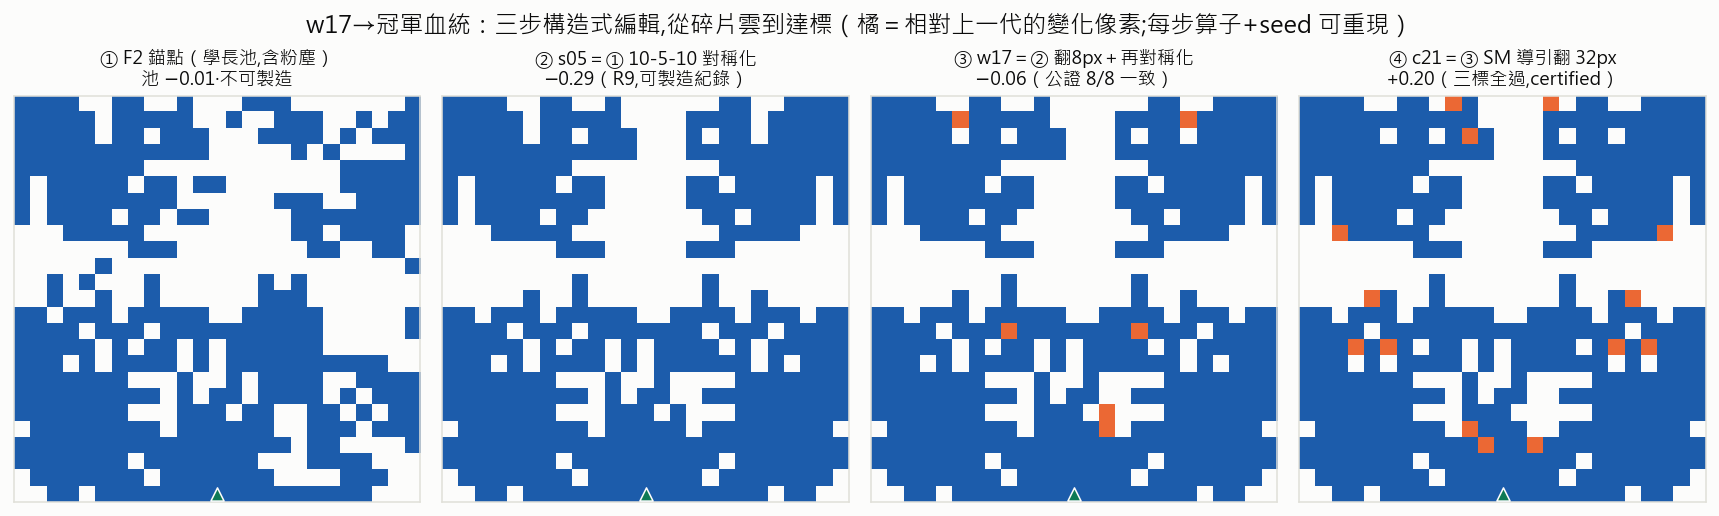
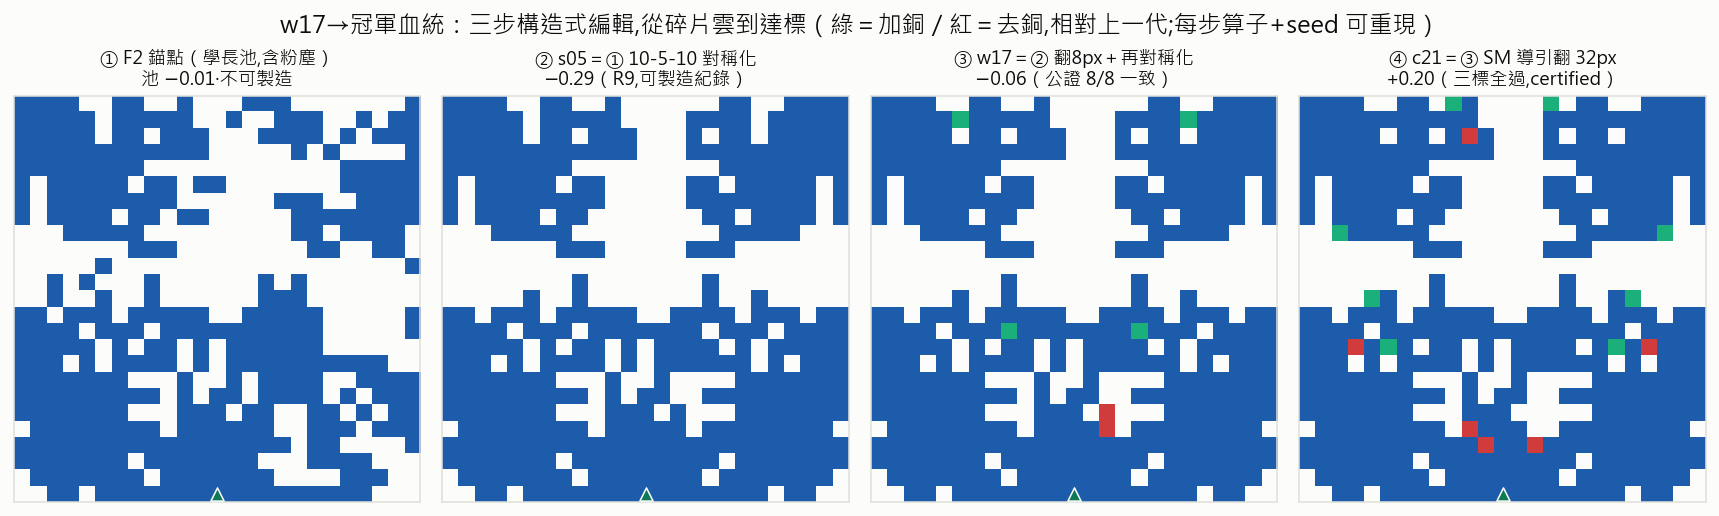
feat(figs)+docs: 報告圖渲染升級（加/減銅·極座標·圖4-4對比）+ 學長參照 pattern 建檔
渲染：
- champ_compare: pattern 差異改「綠＝加銅/紅＝去銅」（原橘=差異,分不出加減）、
  radiation 改極座標（主波束朝上+±45°窗+G0−3dB圈）、加 --plain（結構差很大的前後對比用純底圖）
- report_r1r10_style: 加共用 helper diff_pattern / polar_rad_ax / show_pattern
- report_r1r10_champs: f12血統/f14八冠軍換加/減銅畫法（已重生 png）
- report_rad_polar: 新增，冠軍方向圖極座標渲染（報告用）

文件：
- docs/senior_reference_patterns.md: 新增——標記學長池關鍵參照 pattern：
  oracle F0（重測 +0.44 撐過驗證）／論文圖4-4 t07_top（+0.35 合規但含13粉塵不可製造）／
  我方對稱母本 F2（−1.42,非學長代表作）
- docs/design_priors.md: 修正「F2 錨點 −6.44」誤植（+6.2 是對稱化對散亂投影家族的救援量,非F2絕對值）
- docs/champions.md: 加指向 senior_reference_patterns

golden: 319 passed；pyflakes 乾淨

Claude-Session: https://claude.ai/code/session_017RoPtpkDCGfHmXdaZghgUZ

diff --git a/script/figs/champ_compare.py b/script/figs/champ_compare.py
@@ -11,8 +11,8 @@ import numpy as np
 
 sys.path.insert(0, os.path.dirname(os.path.dirname(os.path.dirname(os.path.abspath(__file__)))))
 from script.figs.report_r1r10_style import (  # noqa: E402
-    INK, INK2, GRID, SURF, RED, DBLUE, AQUA, ORANGE, plt, style_ax)
-from matplotlib.colors import ListedColormap  # noqa: E402
+    INK, INK2, GRID, SURF, RED, DBLUE, plt, style_ax,
+    diff_pattern, show_pattern, polar_rad_ax)
 
 from antenna.utils import config as _config, DATASET_PATH  # noqa: E402
 _config.device = "cpu"
@@ -74,6 +74,8 @@ def main():
     ap.add_argument("--title", default="新舊冠軍對比")
     ap.add_argument("--label-new", default=None, dest="label_new")
     ap.add_argument("--label-old", default=None, dest="label_old")
+    ap.add_argument("--plain", action="store_true",
+                    help="兩個 pattern 都用純底圖（非血統步、結構差很大的前後對比時用）")
     args = ap.parse_args()
     pn, stn = _locate(args.new)
     po, sto = _locate(args.old)
@@ -83,22 +85,16 @@ def main():
     ln = args.label_new or f"{args.new}（新）"
     lo = args.label_old or f"{args.old}（舊）"
 
-    fig = plt.figure(figsize=(13.2, 6.4))
-    gs = fig.add_gridspec(2, 4, width_ratios=[1, 1, 1.35, 1.35], hspace=0.42, wspace=0.34)
-    for col, (p, base, lab, c) in enumerate(((pn, po, ln, INK), (po, None, lo, INK2))):
-        ax = fig.add_subplot(gs[:, col])
-        img = p.astype(int)
-        if base is not None:
-            img[p != base] = 2
-        ax.imshow(img, cmap=ListedColormap([SURF, DBLUE, ORANGE]), vmin=0, vmax=2,
-                  origin="upper", interpolation="nearest")
-        ax.scatter([FEED[1]], [FEED[0]], marker="^", s=44, color=AQUA, zorder=5, edgecolor=SURF, lw=0.8)
-        d = int((pn != po).sum())
-        ax.set_title(f"{lab}" + (f"\n（橘＝相對舊王差異 {d}px）" if base is not None else ""),
-                     color=c, fontsize=9.6)
-        ax.set_xticks([]); ax.set_yticks([])
-        for sp in ax.spines.values():
-            sp.set_color(GRID)
+    fig = plt.figure(figsize=(13.8, 7.7))
+    gs = fig.add_gridspec(2, 4, width_ratios=[1, 1, 1.35, 1.35],
+                          left=0.02, right=0.985, top=0.9, bottom=0.11,
+                          hspace=0.6, wspace=0.44)
+    # 左欄＝新（血統步→綠加銅／紅去銅；--plain→純底圖）；右欄＝舊純底圖
+    if args.plain:
+        show_pattern(fig.add_subplot(gs[:, 0]), pn, title=ln, tfs=9.6)
+    else:
+        diff_pattern(fig.add_subplot(gs[:, 0]), pn, po, title=ln)
+    show_pattern(fig.add_subplot(gs[:, 1]), po, title=lo, color=INK2, tfs=9.6)
     for (gr, idx, spec, nm, low) in ((gs[0, 2], 0, -10, "S11", True), (gs[0, 3], 1, 4, "Gain", False)):
         ax = fig.add_subplot(gr)
         n = rn.shape[1]
@@ -110,16 +106,32 @@ def main():
         style_ax(ax, "頻率 (GHz)", f"{nm} (dB)", nm, tfs=10.5)
         if idx == 0:
             ax.legend(fontsize=8.2, loc="lower left", framealpha=0.94).get_frame().set_edgecolor(GRID)
-    for (gr, cut) in ((gs[1, 2], "phi0"), (gs[1, 3], "phi90")):
-        ax = fig.add_subplot(gr)
-        ax.axvspan(-45, 45, color=GRID, alpha=0.45)
-        for rad, c, lw in ((rado, "#9fb4d4", 1.8), (radn, DBLUE, 2.3)):
-            if rad is not None and rad.get(cut) is not None:
-                ax.plot(np.asarray(rad["theta"]), np.asarray(rad[cut]), color=c, lw=lw)
-        ax.set_xlim(-90, 90); ax.set_xticks([-90, -45, 0, 45, 90])
-        style_ax(ax, "θ (deg)", "Gain (dB)", f"Radiation {cut} — 灰帶＝±45° 窗", tfs=10.5)
-    fig.suptitle(args.title, color=INK, fontsize=12.5)
-    fig.tight_layout(rect=[0, 0, 1, 0.97])
+    def _g0(rad):
+        if rad is None:
+            return None
+        th = np.asarray(rad["theta"]); bi = int(np.abs(th).argmin())
+        vals = [float(np.asarray(rad[c])[bi]) for c in ("phi0", "phi90") if rad.get(c) is not None]
+        return max(vals) if vals else None
+    g0n = _g0(radn)
+    for k, (gr, cut) in enumerate(((gs[1, 2], "phi0"), (gs[1, 3], "phi90"))):
+        ax = fig.add_subplot(gr, projection="polar")
+        series = []
+        if rado is not None and rado.get(cut) is not None:
+            series.append((rado[cut], "#9fb4d4", lo, 1.7))
+        if radn is not None and radn.get(cut) is not None:
+            series.append((radn[cut], DBLUE, ln, 2.3))
+        if series:
+            th = np.asarray((radn if radn is not None else rado)["theta"])
+            polar_rad_ax(ax, th, series, window=45, floor_db=3, g0_ref=g0n)
+            ax.set_title(f"方向圖 φ={cut[3:]}°（極座標）", color=INK, fontsize=9.8, pad=9)
+            if k == 0:
+                ax.legend(fontsize=7.6, loc="lower center", bbox_to_anchor=(0.5, -0.2),
+                          ncol=2, framealpha=0.9).get_frame().set_edgecolor(GRID)
+        else:
+            ax.set_title(f"方向圖 φ={cut[3:]}°（無資料）", color=INK2, fontsize=9.8)
+    fig.suptitle(args.title, color=INK, fontsize=12.8, y=0.965)
+    fig.text(0.5, 0.02, "方向圖：主波束朝上·金＝±45° 覆蓋窗·橘虛線＝窗邊界·紅虛圈＝G0−3dB 門檻（窗內不得低於此圈）",
+             ha="center", color=INK2, fontsize=8.6)
     os.makedirs(os.path.dirname(args.out), exist_ok=True)
     fig.savefig(args.out, dpi=140, bbox_inches="tight", facecolor=SURF)
     print(f"→ {args.out}")

diff --git a/script/figs/report_r1r10_style.py b/script/figs/report_r1r10_style.py
@@ -62,3 +62,70 @@ def show_pattern(ax, p, title="", feed=(24, 12), color=DBLUE, tfs=10):
     ax.set_yticks([])
     for s in ax.spines.values():
         s.set_color(GRID)
+
+
+def diff_pattern(ax, p_new, p_old, title="", feed=(24, 12), tfs=9.6, show_counts=True):
+    """25×25 pattern 差異底圖：白＝雙方空、藍＝雙方金屬、綠＝加銅（新有舊無）、紅＝去銅（新無舊有）。
+    p_new/p_old 任意輸入。回傳 (n_add, n_remove)。"""
+    from matplotlib.colors import ListedColormap
+    import numpy as np
+    pn = np.asarray(p_new).reshape(25, 25) > 0.5
+    po = np.asarray(p_old).reshape(25, 25) > 0.5
+    img = pn.astype(int)                       # 0=空 1=金屬
+    added = pn & ~po
+    removed = (~pn) & po
+    img[added] = 2                             # 綠＝加銅
+    img[removed] = 3                           # 紅＝去銅
+    ax.imshow(img, cmap=ListedColormap([SURF, DBLUE, GREEN, RED]), vmin=0, vmax=3,
+              origin="upper", interpolation="nearest")
+    ax.scatter([feed[1]], [feed[0]], marker="^", s=46, color=AQUA, zorder=5,
+               edgecolor=SURF, lw=0.8)
+    na, nr = int(added.sum()), int(removed.sum())
+    if title:
+        sub = f"\n綠＝加銅 {na}px・紅＝去銅 {nr}px" if show_counts else ""
+        ax.set_title(title + sub, color=INK, fontsize=tfs)
+    ax.set_xticks([])
+    ax.set_yticks([])
+    for s in ax.spines.values():
+        s.set_color(GRID)
+    return na, nr
+
+
+def polar_rad_ax(ax, theta, series, window=45, floor_db=3, rmax=None, rmin=None,
+                 show_window=True, g0_ref=None):
+    """在 polar ax 上畫方向圖切面（主波束朝上、半徑=gain dB、每環 5dB）。
+    theta：角度(度)。series：list of (gain陣列, 顏色, 標籤, 線寬)。
+    畫 ±window° 覆蓋窗（金）＋兩邊界（橘）＋G0−floor_db 圈（紅虛）。回傳 (rmin, rmax, g0)。"""
+    import numpy as np
+    th = np.asarray(theta)
+    o = th.argsort()
+    th = th[o]
+    ser = [(np.asarray(g).reshape(-1)[o], c, lab, lw) for (g, c, lab, lw) in series]
+    bi = int(np.abs(th).argmin())
+    g0 = g0_ref if g0_ref is not None else max(float(g[bi]) for g, *_ in ser)
+    gmax = max(float(g.max()) for g, *_ in ser)
+    gmin = min(float(g.min()) for g, *_ in ser)
+    if rmax is None:
+        rmax = int(np.ceil((gmax + 0.5) / 5.0) * 5)
+    if rmin is None:
+        rmin = int(max(np.floor(gmin / 5.0) * 5, rmax - 30))
+    ax.set_theta_zero_location("N")
+    ax.set_theta_direction(-1)
+    ax.set_rlim(0, rmax - rmin)
+    ax.set_rlabel_position(0)
+    if show_window:
+        ax.fill_between(np.deg2rad(np.linspace(-window, window, 60)), 0, rmax - rmin,
+                        color="gold", alpha=0.14)
+        for a in (-window, window):
+            ax.plot([np.deg2rad(a)] * 2, [0, rmax - rmin], color=ORANGE, ls="--", lw=1.3)
+    ax.plot(np.deg2rad(np.linspace(-180, 180, 361)), np.full(361, (g0 - floor_db) - rmin),
+            color=RED, ls="--", lw=1.1)
+    for g, c, lab, lw in ser:
+        ax.plot(np.deg2rad(th), np.clip(g, rmin, None) - rmin, color=c, lw=lw, label=lab)
+    rt = list(range(rmin, rmax + 1, 5))
+    ax.set_rticks([t - rmin for t in rt])
+    ax.set_yticklabels([str(t) for t in rt], fontsize=7, color=INK2)
+    ax.set_thetagrids(range(0, 360, 30),
+                      ["0", "30", "60", "90", "120", "150", "180",
+                       "-150", "-120", "-90", "-60", "-30"], fontsize=7.5, color=INK2)
+    return rmin, rmax, g0

diff --git a/script/figs/report_rad_polar.py b/script/figs/report_rad_polar.py
@@ -1,0 +1,64 @@
+# -*- coding: utf-8 -*-
+"""report_rad_polar.py — 報告用：把指定冠軍的方向圖以「極座標」渲染（達標樣貌一目了然）。
+主波束朝上、半徑=gain(dB)、phi0(E,藍)/phi90(H,綠)、金＝±45° 覆蓋窗、紅虛圈＝G0−3dB 門檻。
+用法: python -m script.figs.report_rad_polar --ids o23b1_007_k8_042_k7_00,g16_r15 \
+      --labels "o23b1_007（rad 王 +1.00）,g16（平衡 rad +0.49）" --out docs/report/assets/rad_polar.png
+資料同 champ_compare（掃 *_input 找 pattern、對應 store 撈 rad）。"""
+import argparse
+import os
+import sys
+
+import numpy as np
+
+sys.path.insert(0, os.path.dirname(os.path.dirname(os.path.dirname(os.path.abspath(__file__)))))
+from script.figs.report_r1r10_style import (  # noqa: E402
+    INK, INK2, SURF, DBLUE, GREEN, plt, polar_rad_ax)
+from script.figs.champ_compare import _locate, _resp_rad  # noqa: E402
+
+
+def main():
+    ap = argparse.ArgumentParser()
+    ap.add_argument("--ids", required=True, help="逗號分隔的冠軍完整 id")
+    ap.add_argument("--labels", default=None, help="逗號分隔的標籤（對齊 ids）")
+    ap.add_argument("--out", required=True)
+    ap.add_argument("--title", default="通過方向圖規格的設計（極座標）")
+    args = ap.parse_args()
+    ids = [s.strip() for s in args.ids.split(",")]
+    labs = [s.strip() for s in args.labels.split(",")] if args.labels else ids
+
+    rads = []
+    for pid in ids:
+        pat, store = _locate(pid)
+        _resp, rad = _resp_rad(pid, pat, store)
+        if rad is None:
+            raise SystemExit(f"{pid} 無方向圖資料")
+        rads.append(rad)
+
+    n = len(ids)
+    fig = plt.figure(figsize=(5.0 * n, 6.0))
+    for i, (rad, lab) in enumerate(zip(rads, labs)):
+        ax = fig.add_subplot(1, n, i + 1, projection="polar")
+        th = np.asarray(rad["theta"])
+        bi = int(np.abs(th).argmin())
+        g0 = max(float(np.asarray(rad[c])[bi]) for c in ("phi0", "phi90") if rad.get(c) is not None)
+        series = []
+        if rad.get("phi0") is not None:
+            series.append((rad["phi0"], DBLUE, "φ=0° (E)", 2.2))
+        if rad.get("phi90") is not None:
+            series.append((rad["phi90"], GREEN, "φ=90° (H)", 2.2))
+        polar_rad_ax(ax, th, series, window=45, floor_db=3, g0_ref=g0)
+        ax.set_title(f"{lab}　G0={g0:.1f} dB", color=INK, fontsize=10.5, pad=8)
+        ax.legend(fontsize=8, loc="lower center", bbox_to_anchor=(0.5, -0.14),
+                  ncol=2, framealpha=0.9)
+    fig.suptitle(args.title, color=INK, fontsize=12.5, y=0.965)
+    fig.text(0.5, 0.035,
+             "主波束朝上·半徑＝Gain(dB)·金＝±45° 覆蓋窗·紅虛圈＝G0−3dB 門檻（窗內每個角度都須高於此圈才達標）",
+             ha="center", color=INK2, fontsize=8.6)
+    fig.subplots_adjust(left=0.04, right=0.96, top=0.82, bottom=0.15, wspace=0.30)
+    os.makedirs(os.path.dirname(args.out), exist_ok=True)
+    fig.savefig(args.out, dpi=140, facecolor=SURF)
+    print(f"→ {args.out}")
+
+
+if __name__ == "__main__":
+    main()

diff --git a/script/figs/report_r1r10_champs.py b/script/figs/report_r1r10_champs.py
@@ -9,7 +9,7 @@ import numpy as np
 
 sys.path.insert(0, os.path.dirname(os.path.dirname(os.path.dirname(os.path.abspath(__file__)))))
 from script.figs.report_r1r10_style import (  # noqa: E402
-    REPO, INK, INK2, MUTED, GRID, SURF, RED, DBLUE, AQUA, ORANGE,
+    REPO, INK, INK2, MUTED, GRID, SURF, RED, DBLUE, AQUA, ORANGE, GREEN,
     plt, style_ax, save)
 from matplotlib.colors import ListedColormap  # noqa: E402
 
@@ -41,11 +41,15 @@ def _find_resp(store_name, pat):
 
 
 def _diff_show(ax, p, ref, title, tfs=9.4):
-    """pattern＋與 ref 的差異像素標橘。"""
+    """pattern；有 ref 時：綠＝加銅（p 有 ref 無）、紅＝去銅（p 無 ref 有）、藍＝共同金屬。"""
     img = p.astype(int)
     if ref is not None:
-        img[p != ref] = 2
-    ax.imshow(img, cmap=ListedColormap([SURF, DBLUE, ORANGE]), vmin=0, vmax=2,
+        img[p & ~ref] = 2          # 加銅
+        img[(~p) & ref] = 3         # 去銅
+        cmap = ListedColormap([SURF, DBLUE, GREEN, RED]); vmax = 3
+    else:
+        cmap = ListedColormap([SURF, DBLUE]); vmax = 1
+    ax.imshow(img, cmap=cmap, vmin=0, vmax=vmax,
               origin="upper", interpolation="nearest")
     ax.scatter([FEED[1]], [FEED[0]], marker="^", s=46, color=AQUA, zorder=5,
                edgecolor=SURF, lw=0.8)
@@ -72,7 +76,7 @@ def fig12():
     _diff_show(axes[1], s05, None, "② s05＝① 10-5-10 對稱化\n−0.29（R9,可製造紀錄）")
     _diff_show(axes[2], w17, s05, "③ w17＝② 翻8px＋再對稱化\n−0.06（公證 8/8 一致）")
     _diff_show(axes[3], c21, w17, "④ c21＝③ SM 導引翻 32px\n+0.20（三標全過,certified）")
-    fig.suptitle("w17→冠軍血統：三步構造式編輯,從碎片雲到達標（橘＝相對上一代的變化像素;每步算子+seed 可重現）",
+    fig.suptitle("w17→冠軍血統：三步構造式編輯,從碎片雲到達標（綠＝加銅／紅＝去銅,相對上一代;每步算子+seed 可重現）",
                  color=INK, fontsize=12.2)
     fig.tight_layout()
     save(fig, "f12_lineage.png")
@@ -131,7 +135,7 @@ def fig14():
         _diff_show(ax, p, w17,
                    f"{cid}（{arm[man[cid]['family'][0]]}, k={man[cid].get('flip_k')}）\n"
                    f"wm +{v['wm'][2]:.2f} · rad +{v['rad_margin']:.2f}", tfs=9.6)
-    fig.suptitle("八冠軍 gallery（橘＝與前任 w17 的差異像素;三標全過,certified;按 wm 排序）\n"
+    fig.suptitle("八冠軍 gallery（綠＝加銅／紅＝去銅,相對前任 w17;三標全過,certified;按 wm 排序）\n"
                  "共同體質：3 組件、零粉塵、主件 240-250px——w17 高地是一整片高原",
                  color=INK, fontsize=12.5)
     fig.tight_layout(h_pad=3.0)

diff --git a/docs/senior_reference_patterns.md b/docs/senior_reference_patterns.md
@@ -1,0 +1,19 @@
+# 學長池的關鍵參照 pattern（benchmark / 報告敘事用）
+
+> 2026-07-14 建檔。這些是學長歷史池裡的**關鍵參照 pattern**——做 benchmark、寫報告、對比「學長成果 vs 我方」時用，避免每次重查。
+> 判準：worst-margin 全走 `antenna.losses.worst_margin` + `configs/single_r5_explore.yaml` targets（帶內 26.5–29.5 GHz、S11 ≤ −10、Gain ≥ +4）。**指向不複製**：冠軍名鑑見 `champions.md`、機器真相見 `records.json`、身分緣由見 memory [[project_senior_showcase_vs_f2]]。
+
+## 三個關鍵 pattern
+
+| 代號 | 定位 | 池 idx | 存放位置 | 池值 wm | **現行 HFSS 重測 wm** | 可製造 | 角色／備註 |
+|---|---|---|---|---|---|---|---|
+| **t07_top** | 🎯 **學長論文圖 4-4 招牌** | 16132 | `dedust_r9_input/t07_top`（rad 在 `dedust_r9/rad/`） | +0.09 | **+0.35**（S11 +0.46／Gain +0.35，帶內達標） | ❌（含 13 個 <4px 粉塵碎片） | 學長 ACP 生成、論文宣稱「完全合規」的展示成果（`docs/Paper.pdf` p65 圖 4-4，像素級 Hamming 0 對上 16132）。**電性合規但含粉塵→不可製造、且碎片承重難找變異** |
+| **F0** | 🥇 **oracle（學長池最佳）** | 6471 | R9 家族錨點 `anchor=F0`（在 `dedust_r9`／`dedust_r7`，rad 有） | +0.38 | **+0.44**（S11 +1.16／Gain +0.44，帶內達標） | ❌（碎片型） | 學長池單一最佳、**撐過我方重測**（R9 t00 +0.44）。R6 的 oracle 上界證據；學長池 18 個過標、R9 實測 8/18 撐過重測 |
+| **F2** | 🔧 **我方對稱化練習母本**（非學長代表作） | 912 | `dedust_r7_input/p02_orig`（rad 有） | −0.01 | **−1.42**（S11 −1.42／Gain −0.21） | ❌（含粉塵） | 我們刻意挑的散亂碎片雲，做 10-5-10 對稱化的起點 → s05 → w17 → c21 構造式血統。**不是學長的招牌**（早期報告曾誤植，已更正） |
+
+## 敘事重點（公允版）
+
+- **學長的方法本身能產生完全合規的設計**（圖 4-4 = t07_top +0.35、oracle F0 +0.44，都撐過我方嚴格重測）——別把學長講差。
+- 差別不在電性，而在 **可製造性**（學長解含粉塵碎片）與 **可系統化衍生／找變異**（碎片承重，動一下就崩）。我方貢獻＝在同一套規格下，把合規的好電性變成**可製造、可微擾演化**的設計（現任 margin 王 m23b4_030 +0.49、三標全過、可製造）。
+- 對比圖產生指令：`python -m script.figs.champ_compare --plain --new m23b4_030_r3_001 --old t07_top --out <path>`（`--plain`＝結構差很大的前後對比，兩 pattern 都純底圖）。
+- ⚠ 已知修正：`design_priors.md` §一.1 原「F2 錨點 −6.44」係誤植——**+6.2 dB 是 10-5-10 對稱化對「F2 散亂投影家族」的救援量**（round-09 §4：F1 +2.8／F2 +6.2），非 F2 絕對值（F2 本身 −1.42／池 −0.01）。已於 2026-07-14 加註修正。

diff --git a/docs/design_priors.md b/docs/design_priors.md
@@ -8,7 +8,8 @@
 ## 一、結構性規則（pattern 該長什麼樣）
 
 ### 🥇 1. 10-5-10 部分對稱化＝「救援算子」——救爛不救好
-- **內容**：左右外側 10 欄鏡射、中央 5 欄自由。對「散亂上半」的結構是強力修復（F2 錨點 −6.44 → s05 −0.29，**+6.2 dB**）；對已優化的結構是破壞（R10 X 臂 4/4 預測命中，−1.5 ~ −12）。
+- **內容**：左右外側 10 欄鏡射、中央 5 欄自由。對「散亂投影」是強力修復——**R9 家族實測對散亂投影的救援量最多 +6.2 dB**（round-09 §4：F1 +2.8／F2 +6.2）；對已優化的結構是破壞（R10 X 臂 4/4 預測命中，−1.5 ~ −12）。
+  - ★ 修正（2026-07-14）：原文「F2 錨點 −6.44 → s05 −0.29」係誤植——**+6.2 是對稱化對 F2 散亂投影家族的『改善量』，非 F2 的絕對 worst-margin**。F2 錨點本身（p02_orig，池 idx 912）現行 HFSS **−1.42**／池值 −0.01；s05 = F2 × 10-5-10 對稱化 = −0.29。詳見 memory [[project_senior_showcase_vs_f2]]。
 - **用法**：generator 的**條件式修復算子**（對亂源用），不是通用先驗；10-5-10 優於全鏡射（R9 S 臂 4/5）。
 - 證據：round-09 §4、round-10 §4（X 臂）。
 

diff --git a/script/figs/README.md b/script/figs/README.md
@@ -17,4 +17,5 @@ dedust store / pool 快取。R6 的圖走 `python -m script.expected_best report
 | `report_r1r10_batch.py` | 報告 F4-F11（R6 期望邊界/分布、R7 除塵、歸因、R8 四臂、R9 家族/校正/s05） |
 | `report_r1r10_champs.py` | 報告 F12-F16（血統/承重圖/八冠軍/曲線/+0.48 案例） |
 | `report_r1r18.py` | 總報告 E1-E6（每輪最佳 gallery/血統鏈/紀錄時間軸/帶外 Pareto/分組答案/新王 a024）→ progress-r1-r18 |
-| `champ_compare.py` | **通用新舊冠軍對比圖**（CLI:--new/--old 自動定位;紀錄易主收檔必渲染,規則見 docs/log/CLAUDE.md） |
+| `champ_compare.py` | **通用新舊冠軍對比圖**（CLI:--new/--old 自動定位;紀錄易主收檔必渲染,規則見 docs/log/CLAUDE.md）。pattern 差異＝綠加銅/紅去銅、radiation＝極座標（helper 在 report_r1r10_style） |
+| `report_rad_polar.py` | 報告用：指定冠軍的方向圖**極座標**渲染（CLI:--ids/--labels;主波束朝上+±45°窗+G0−3dB 圈） |

diff --git a/docs/champions.md b/docs/champions.md
@@ -5,6 +5,7 @@
 > **價值軸（2026-07-12 Ricky 定調）**：三標＝硬閘門，過線後帶內餘裕邊際價值 ≈0，**收益軸＝帶外壓低**
 > （字典序：①三標 ②oob_bad 升冪；「永不拿帶內換帶外」不變）。**帶外王＝旗艦頭銜**；
 > 可用/製造候選另要求 **wm ≥ +0.15 buffer**（R11：缺陷存活＝margin 函數）。
+> **學長池關鍵參照 pattern**（oracle F0／論文圖 4-4 t07_top／我方對稱母本 F2）見 [senior_reference_patterns.md](senior_reference_patterns.md)。
 
 ## 現任頭銜
 
